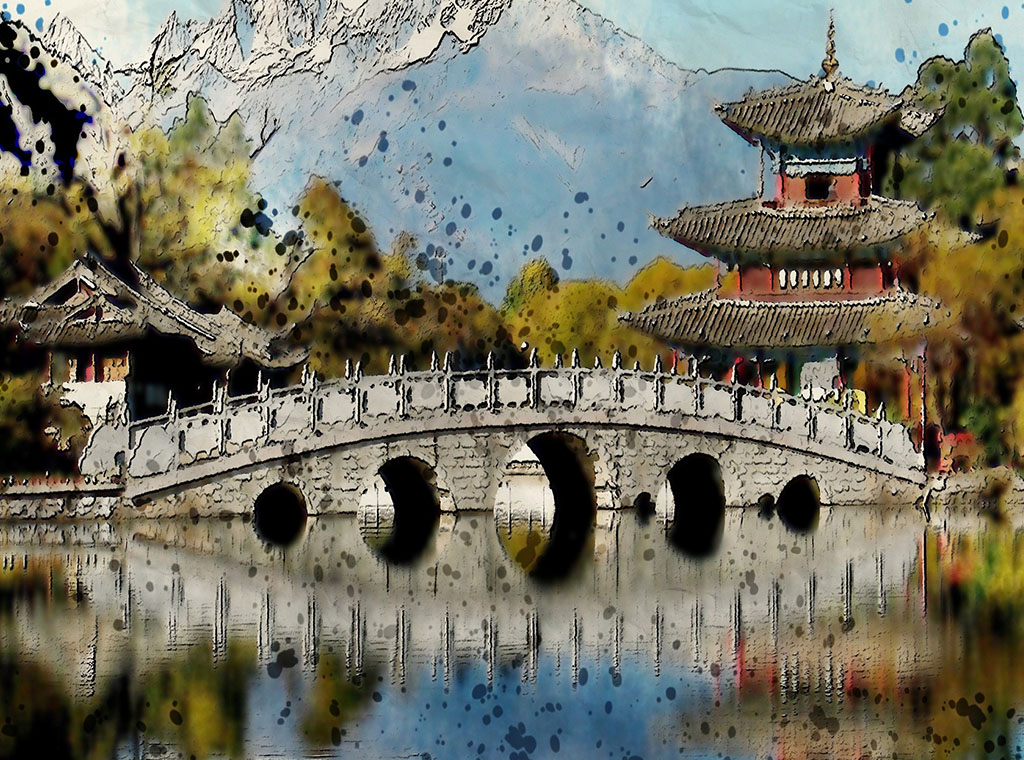
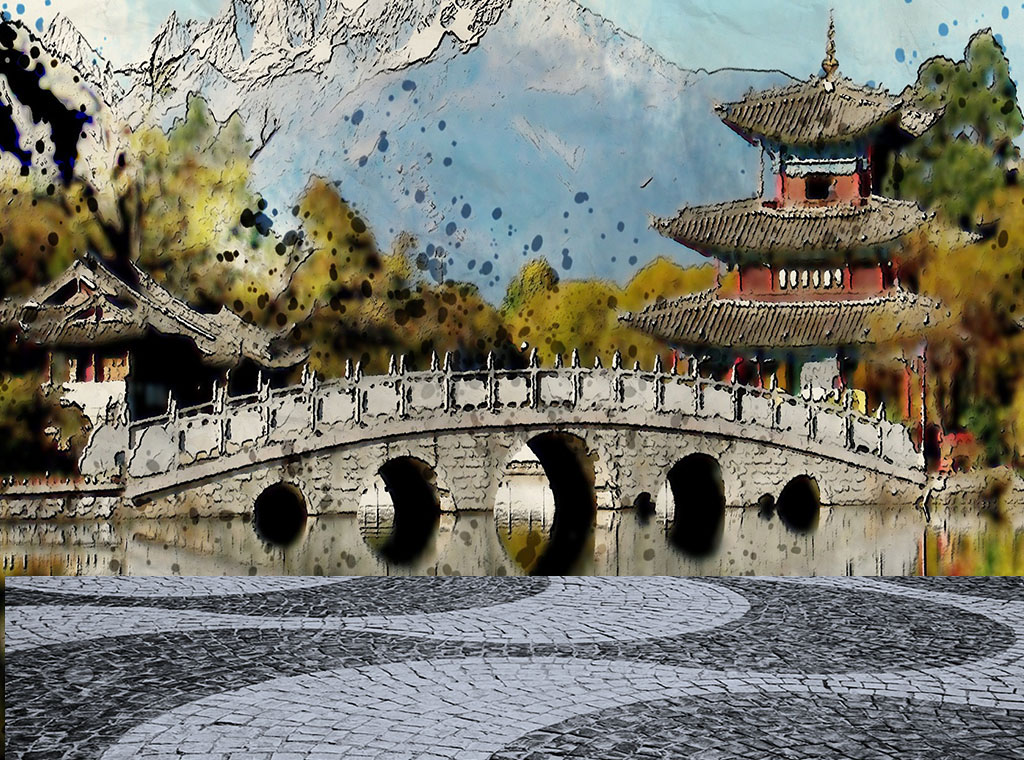
Started working on party

Changed region(s): [[0.0, 0.7566, 1.0, 1.0]]

diff --git a/src/Party.tsx b/src/Party.tsx
@@ -1,0 +1,107 @@
+import React, { useState } from "react";
+import { IPartyMember } from "./data/Types";
+import { isAbsolute } from "path";
+
+let allParty: IPartyMember[] = [
+  {
+    id: "grey",
+    name: "Grey",
+    image: "temp-main4.png",
+    placeholder: "temp-main4black.png",
+    selected: "temp-main4selected.png",
+    opened: false
+  },
+  {
+    id: "dart",
+    name: "Dart",
+    image: "temp-main5.png",
+    placeholder: "temp-main5black.png",
+    selected: "temp-main5selected.png",
+    opened: false
+  },
+  {
+    id: "maya",
+    name: "Maya",
+    image: "temp-main1.png",
+    placeholder: "temp-main1black.png",
+    selected: "temp-main1selected.png",
+    opened: false
+  },
+  {
+    id: "nell",
+    name: "Nell",
+    image: "temp-main2.png",
+    placeholder: "temp-main2black.png",
+    selected: "temp-main2selected.png",
+    opened: false
+  },
+  {
+    id: "tara",
+    name: "Tara",
+    image: "temp-main3.png",
+    placeholder: "temp-main3black.png",
+    selected: "temp-main3selected.png",
+    opened: false
+  }
+];
+
+interface IPartyMemberProps {
+  char: IPartyMember;
+}
+const PartyMember = (props: IPartyMemberProps) => {
+  const charStyle = {
+    display: "inline" as "inline",
+    marginLeft: "-40px",
+    marginRight: "-35px",
+    textAlign: "center" as "center",
+    position: "relative" as "relative"
+  };
+
+  const buttonStyle = {
+    position: "absolute" as "absolute",
+    bottom: "-20px",
+    left: "80px"
+  };
+
+  const [selected, select] = useState(null);
+  return (
+    <div style={charStyle}>
+      <img
+        src={props.char.opened ? props.char.image : props.char.placeholder}
+      />
+      {props.char.opened && props.char.id !== "maya" ? (
+        <button style={buttonStyle} onClick={() => select}>
+          Select
+        </button>
+      ) : null}
+    </div>
+  );
+};
+
+interface IPartyProps {
+  party: string[] | null;
+}
+
+export const Party = (props: IPartyProps) => {
+  const partyStyle = {
+    top: "0",
+    right: "15px",
+    height: "750px",
+    width: "1024px",
+    position: "absolute" as "absolute",
+    textAlign: "center" as "center",
+    backgroundImage: `url(temp-backg4.png)`
+  };
+
+  return (
+    <div style={partyStyle}>
+      <h1>PARTY</h1>
+      {allParty.map((char: IPartyMember) => {
+        if (props.party && props.party.indexOf(char.id) !== -1) {
+          char.opened = true;
+        }
+        return <PartyMember char={char} key={char.id} />;
+      })}
+    </div>
+  );
+};

diff --git a/src/data/Connections.ts b/src/data/Connections.ts
@@ -9,7 +9,8 @@ export const connections: IConnection[] = [
     image: "temp-obj3.png",
     position: { x: 0, y: GROUNDLEVEL },
     origin: 0,
-    to: 6
+    to: 6,
+    partySelect: true
   },
   {
     id: 1,
@@ -19,7 +20,8 @@ export const connections: IConnection[] = [
     origin: 0,
     to: 1,
     questUpdate: { 0: "0_ARENA_ENTER" },
-    levelStart: { 0: "to_ormron_arena" }
+    levelStart: { 0: "to_ormron_arena" },
+    partySelect: false
   },
   {
     id: 2,
@@ -28,7 +30,8 @@ export const connections: IConnection[] = [
     position: { x: 400, y: GROUNDLEVEL },
     origin: 0,
     to: 2,
-    dialogueActiveStart: 8
+    dialogueActiveStart: 8,
+    partySelect: false
   },
   {
     id: 3,
@@ -36,7 +39,8 @@ export const connections: IConnection[] = [
     image: "temp-obj3.png",
     position: { x: 10, y: GROUNDLEVEL },
     origin: 1,
-    to: 0
+    to: 0,
+    partySelect: false
   },
   {
     id: 4,
@@ -44,7 +48,8 @@ export const connections: IConnection[] = [
     image: "temp-obj3.png",
     position: { x: 10, y: GROUNDLEVEL },
     origin: 2,
-    to: 0
+    to: 0,
+    partySelect: false
   },
   {
     id: 5,
@@ -52,7 +57,8 @@ export const connections: IConnection[] = [
     image: "temp-obj1.png",
     position: { x: 400, y: GROUNDLEVEL },
     origin: 2,
-    to: 3
+    to: 3,
+    partySelect: false
   },
   {
     id: 6,
@@ -60,7 +66,8 @@ export const connections: IConnection[] = [
     image: "temp-obj2.png",
     position: { x: SCREENWIDTH - 200, y: GROUNDLEVEL },
     origin: 2,
-    to: 4
+    to: 4,
+    partySelect: false
   },
   {
     id: 7,
@@ -68,7 +75,8 @@ export const connections: IConnection[] = [
     image: "temp-obj3.png",
     position: { x: 10, y: GROUNDLEVEL },
     origin: 3,
-    to: 2
+    to: 2,
+    partySelect: false
   },
   {
     id: 8,
@@ -76,6 +84,7 @@ export const connections: IConnection[] = [
     image: "temp-obj3.png",
     position: { x: 10, y: GROUNDLEVEL },
     origin: 4,
-    to: 2
+    to: 2,
+    partySelect: false
   }
 ];

diff --git a/src/App.tsx b/src/App.tsx
@@ -7,20 +7,24 @@ import {
   displayMap,
   updateQuest,
   updateLevel,
-  dialogueActive
+  dialogueActive,
+  selectParty
 } from "./store/actions";
 import { dialogues } from "./data/Dialogues";
 import { quests } from "./data/Quests";
 import { levels } from "./data/Levels";
 import { maps } from "./data/Maps";
-import { INpc, IConnection } from "./data/Types";
+import { INpc, IConnection, IPartyMember } from "./data/Types";
 import { NPC } from "./Npc";
 import { Quest } from "./Quest";
 import { Dialogue } from "./Dialogue";
+import { Party } from "./Party";
 import { Map } from "./Map";
 
 import "./App.css";
-import { findDialogue, findConnection } from "./helpers";
+import { findConnection } from "./helpers";
+
+let party: string[] = ["maya", "nell"];
 
 interface IInfolineProps {
   line: string | null;
@@ -126,6 +130,10 @@ const Entry = (props: IEntryProps) => {
     if (props.c.dialogueActiveStart && firstTimeVisit()) {
       dispatch(dialogueActive(props.c.dialogueActiveStart));
     }
+    if (props.c.partySelect && isOpen(c.to)) {
+      dispatch(selectParty(party));
+      return;
+    }
     if (isOpen(c.to)) {
       dispatch(levelActive(c.to));
     }
@@ -153,6 +161,8 @@ const App: React.FC = () => {
   const mapsState = useSelector((state: any) => state.maps);
   const mapId = useSelector((state: any) => state.activeMap);
   const chapter = useSelector((state: any) => state.chapter);
+  const party = useSelector((state: any) => state.partySelection);
+
   return (
     <div className="App">
       <img src={levels[levelInd].backgrounds[0].image} />
@@ -185,6 +195,7 @@ const App: React.FC = () => {
       {mapId != null ? (
         <Map chapter={chapter} map={maps[mapId]} state={mapsState} />
       ) : null}
+      {party != null ? <Party party={party} /> : null}
     </div>
   );
 };

diff --git a/src/data/Types.ts b/src/data/Types.ts
@@ -2,6 +2,7 @@ export interface IGso {
   chapter: number;
   activeLevel: number;
   infoline: string | null;
+  partySelection: IPartyMember[] | null;
   activeDialogue: number | null;
   activeMap: number | null;
   questsTaken: number[];
@@ -26,6 +27,15 @@ export interface IMapLevel {
   position: IPoint;
 }
 
+export interface IPartyMember {
+  id: string;
+  name: string;
+  image: string;
+  placeholder: string;
+  selected: string;
+  opened: boolean;
+}
+
 export interface ILevel {
   id: number;
   name: string;
@@ -41,6 +51,7 @@ export interface IConnection {
   origin: number;
   position: IPoint;
   image: string;
+  partySelect: boolean;
   trigger?: number | false;
   questUpdate?: any;
   levelStart?: any;

diff --git a/src/Quest.tsx b/src/Quest.tsx
@@ -1,7 +1,7 @@
 import React from "react";
 import { IQuest, IQuestStep } from "./data/Types";
 import { useDispatch } from "react-redux";
-import { displayQuest, updateQuest, finishQuest } from "./store/actions";
+import { displayQuest } from "./store/actions";
 
 interface ISingleLineProps {
   name: string;
@@ -102,7 +102,6 @@ export const Quest = (props: IQuestProps) => {
         onClick={() => dispatch(displayQuest(null))}
       />
       {props.quests.map((q: IQuest) => {
-        console.log("Taken quests", props.quests);
         return (
           <SingleQuest
             key={q.id}

diff --git a/src/store/reduicers.ts b/src/store/reduicers.ts
@@ -8,7 +8,8 @@ import {
   SHOW_MAP,
   UPDATE_MAP,
   UPDATE_LEVEL,
-  NPC_UPDATE
+  NPC_UPDATE,
+  SHOW_PARTY
 } from "../data/Constants";
 import { gso } from "../data/Gso";
 import { IGso } from "../data/Types";
@@ -81,6 +82,10 @@ export default function GsoReduicer(
       levelsToUpdate1[action.payload.level][action.payload.name] =
         action.payload.state;
       return Object.assign({}, state, { levels: levelsToUpdate1 });
+    case SHOW_PARTY:
+      return Object.assign({}, state, {
+        partySelection: action.payload
+      });
     default:
       return initialState;
   }

diff --git a/src/store/actions.ts b/src/store/actions.ts
@@ -8,7 +8,8 @@ import {
   FINISH_QUEST,
   UPDATE_MAP,
   UPDATE_LEVEL,
-  NPC_UPDATE
+  NPC_UPDATE,
+  SHOW_PARTY
 } from "../data/Constants";
 
 export const dialogueActive = (index: number | null) => {
@@ -81,5 +82,12 @@ export const updateMap = (condition: any) => {
   return {
     payload: { map, state },
     type: UPDATE_MAP
+  };
+};
+
+export const selectParty = (party: any) => {
+  return {
+    payload: party,
+    type: SHOW_PARTY
   };
 };

diff --git a/src/data/Gso.ts b/src/data/Gso.ts
@@ -10,6 +10,7 @@ export const gso: IGso = {
   activeQuest: null,
   activeMap: null,
   infoline: null,
+  partySelection: null, //[{ id: "maya", name: "Maya" }],
   levels: [
     { npc_Olija: false, npc_Dario: false, to_ormron_arena: "triggered" },
     { npc_Dario1: false },

diff --git a/src/data/Constants.ts b/src/data/Constants.ts
@@ -9,3 +9,4 @@ export const FINISH_QUEST = "FINISH_QUEST";
 export const SHOW_QUEST = "SHOW_QUEST";
 export const UPDATE_MAP = "UPDATE_MAP";
 export const UPDATE_LEVEL = "UPDATE_LEVEL";
+export const SHOW_PARTY = "SHOW_PARTY";
